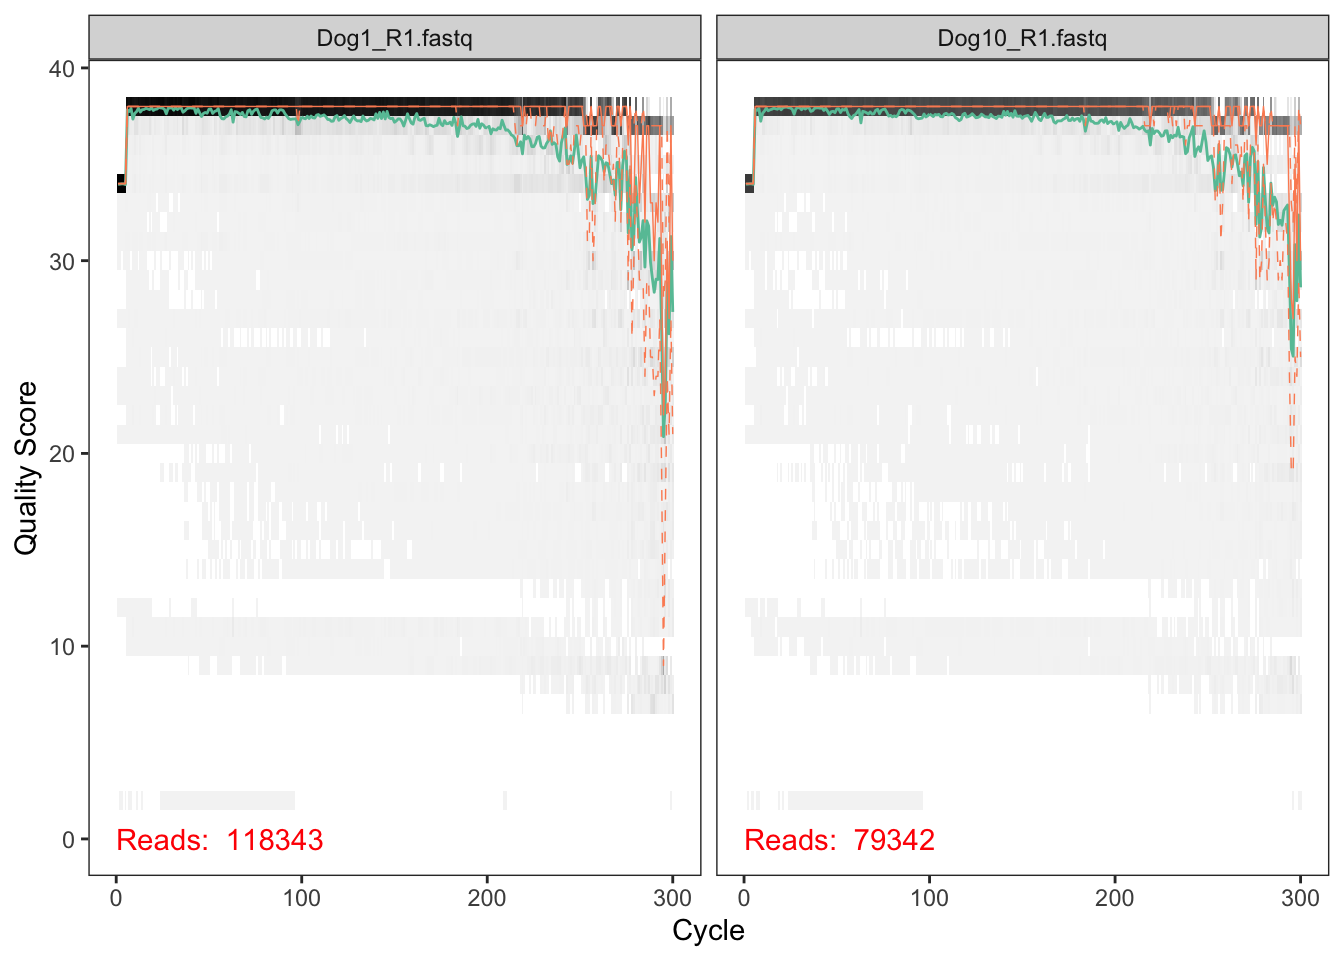
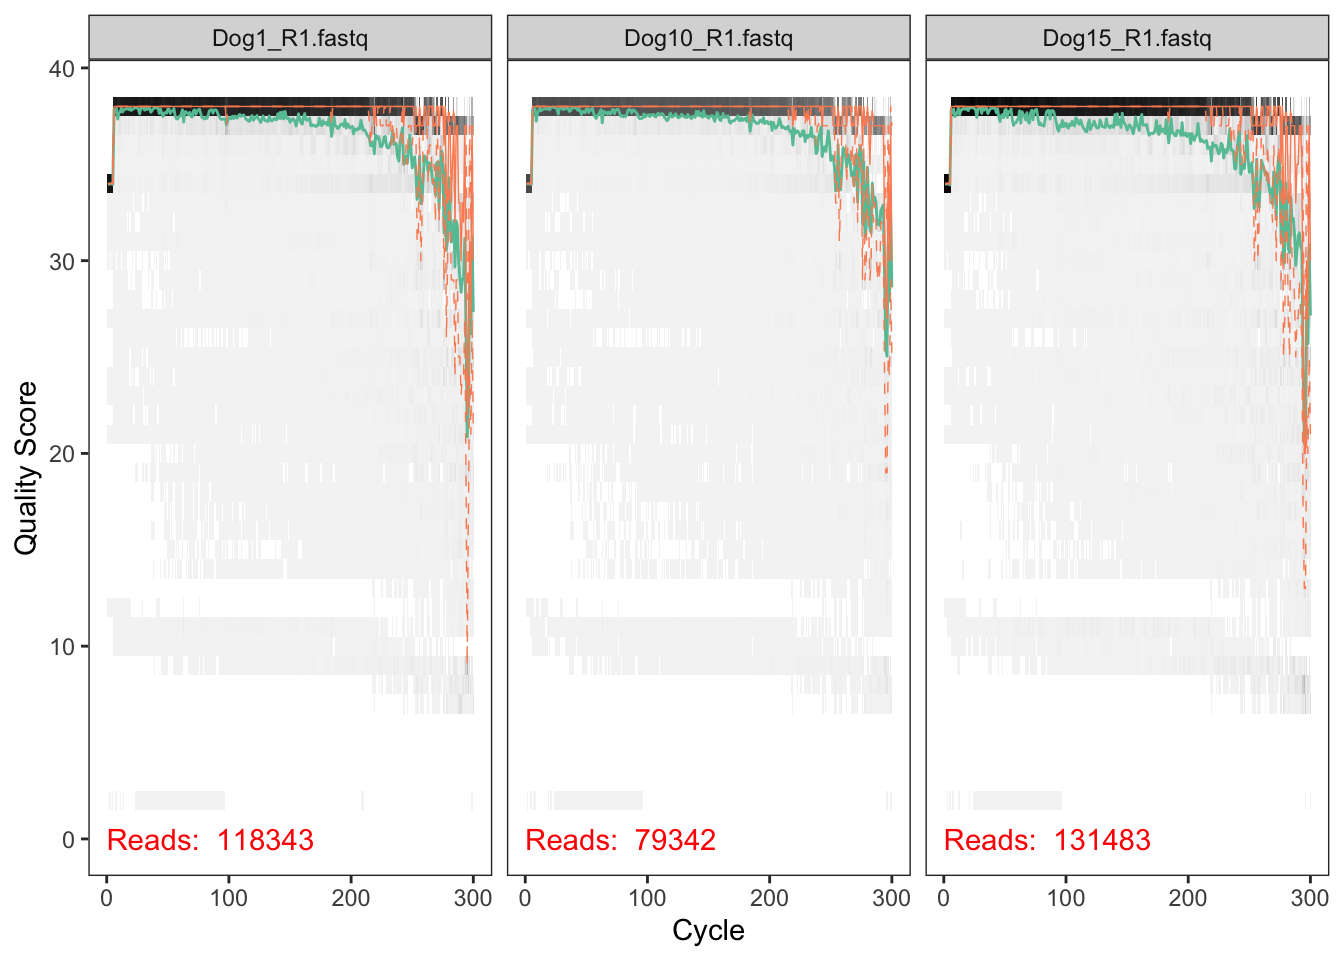
Add home page, navigation and theme

diff --git a/docs/16S-rRNA-pipeline-using-DADA2.html b/docs/16S-rRNA-pipeline-using-DADA2.html
@@ -423,6 +423,7 @@ $(document).ready(function () {
 </tr>
 </tbody>
 </table>
+<p><br/><br/></p>
 </div>
 <div id="getting-ready" class="section level2">
 <h2><span style="color:green">Getting ready</span></h2>
@@ -441,7 +442,7 @@ list.files(data)</code></pre>
 ## [21] &quot;Dog3_R1.fastq&quot;  &quot;Dog3_R2.fastq&quot;  &quot;Dog30_R1.fastq&quot; &quot;Dog30_R2.fastq&quot;
 ## [25] &quot;Dog31_R1.fastq&quot; &quot;Dog31_R2.fastq&quot; &quot;Dog8_R1.fastq&quot;  &quot;Dog8_R2.fastq&quot; 
 ## [29] &quot;Dog9_R1.fastq&quot;  &quot;Dog9_R2.fastq&quot;  &quot;filtered&quot;</code></pre>
-<p>#<code>{r} #MY_HOME &lt;- getwd() #data &lt;- paste(MY_HOME, &quot;/dog_samples&quot;, sep='')  # change the path #list.files(data) #</code> If the package successfully loaded and your listed files match those here, you are ready to go through the DADA2 pipeline. &lt;br&gt;&lt;br&gt;</p>
+<p>If the package successfully loaded and your listed files match those here, you are ready to go through the DADA2 pipeline. <br/><br/></p>
 <p>Now, we read in the names of the fastq files, and perform some string manipulation to get matched lists of the forward and reverse fastq files.</p>
 <pre class="r"><code># Forward and reverse fastq filenames have format: SAMPLENAME_R1.fastq and SAMPLENAME_R2.fastq
 fnFs &lt;- sort(list.files(data, pattern=&quot;_R1.fastq&quot;, full.names = TRUE))
@@ -452,15 +453,18 @@ sample.names &lt;- sapply(strsplit(basename(fnFs), &quot;_&quot;), `[`, 1)
 sample.names</code></pre>
 <pre><code>##  [1] &quot;Dog1&quot;  &quot;Dog10&quot; &quot;Dog15&quot; &quot;Dog16&quot; &quot;Dog17&quot; &quot;Dog2&quot;  &quot;Dog22&quot; &quot;Dog23&quot;
 ##  [9] &quot;Dog24&quot; &quot;Dog29&quot; &quot;Dog3&quot;  &quot;Dog30&quot; &quot;Dog31&quot; &quot;Dog8&quot;  &quot;Dog9&quot;</code></pre>
+<p><br/><br/></p>
 </div>
 <div id="quality-control-on-the-raw-data" class="section level2">
 <h2><span style="color:green">1. Quality Control on the raw data</span></h2>
 <p>We start by visualizing the quality profiles of the forward reads:</p>
-<pre class="r"><code>plotQualityProfile(fnFs[1:2])</code></pre>
-<p><img src="16S-rRNA-pipeline-using-DADA2_files/figure-html/unnamed-chunk-4-1.png" width="672" /> &lt;br&gt;&lt;br&gt;</p>
+<pre class="r"><code>plotQualityProfile(fnFs[1:3])</code></pre>
+<p><img src="16S-rRNA-pipeline-using-DADA2_files/figure-html/unnamed-chunk-4-1.png" width="672" /></p>
+<p><br/><br/></p>
 <p>We start by visualizing the quality profiles of the Reverse reads:</p>
-<pre class="r"><code>plotQualityProfile(fnRs[1:2])</code></pre>
+<pre class="r"><code>plotQualityProfile(fnRs[1:3])</code></pre>
 <p><img src="16S-rRNA-pipeline-using-DADA2_files/figure-html/unnamed-chunk-5-1.png" width="672" /></p>
+<p><br/><br/> Here, we have only the quality plot for three fastq files you can more plots to the figure.</p>
 <p><br/><br/></p>
 </div>
 <div id="filter-and-trim-the-raw-data" class="section level2">
@@ -471,17 +475,150 @@ filtFs &lt;- file.path(data, &quot;filtered&quot;, paste0(sample.names, &quot;_F
 filtRs &lt;- file.path(data, &quot;filtered&quot;, paste0(sample.names, &quot;_R_filt.fastq.gz&quot;))
 names(filtFs) &lt;- sample.names
 names(filtRs) &lt;- sample.names</code></pre>
-<pre class="r"><code>out &lt;- filterAndTrim(fnFs, filtFs, fnRs, filtRs, truncLen=c(240,160),
+<p>For the filtering, we will use these parameters: <strong>maxN = 0</strong> (DADA2 requeris no Ns), <strong>truncQ=2</strong>, <strong>rm.phix=TRUE</strong>, <strong>maxEE=2</strong> (it is the maximum number of expected errors allowed in a read), <strong>truncLen(270, 210)</strong> (it depends on the quality of your reads).</p>
+<pre class="r"><code>out &lt;- filterAndTrim(fnFs, filtFs, fnRs, filtRs, truncLen=c(270,200),
               maxN=0, maxEE=c(2,2), truncQ=2, rm.phix=TRUE,
               compress=TRUE, multithread=TRUE) # On Windows set multithread=FALSE
 head(out)</code></pre>
 <pre><code>##                reads.in reads.out
-## Dog1_R1.fastq    118343    113501
-## Dog10_R1.fastq    79342     76839
-## Dog15_R1.fastq   131483    122917
-## Dog16_R1.fastq   114424    109530
-## Dog17_R1.fastq    99610     95439
-## Dog2_R1.fastq    108679    104449</code></pre>
+## Dog1_R1.fastq    118343    109969
+## Dog10_R1.fastq    79342     75032
+## Dog15_R1.fastq   131483    118085
+## Dog16_R1.fastq   114424    105926
+## Dog17_R1.fastq    99610     92295
+## Dog2_R1.fastq    108679    101323</code></pre>
+<p><br/><br/></p>
+</div>
+<div id="learn-the-error-rates" class="section level2">
+<h2><span style="color:green">3. Learn the Error Rates</span></h2>
+<pre class="r"><code>errF &lt;- learnErrors(filtFs, multithread=TRUE)</code></pre>
+<pre><code>## 110433240 total bases in 409012 reads from 4 samples will be used for learning the error rates.</code></pre>
+<pre class="r"><code>errR &lt;- learnErrors(filtRs, multithread=TRUE)</code></pre>
+<pre><code>## 100261400 total bases in 501307 reads from 5 samples will be used for learning the error rates.</code></pre>
+<pre class="r"><code>plotErrors(errF, nominalQ=TRUE)</code></pre>
+<pre><code>## Warning: Transformation introduced infinite values in continuous y-axis</code></pre>
+<p><img src="16S-rRNA-pipeline-using-DADA2_files/figure-html/unnamed-chunk-10-1.png" width="672" /></p>
+<p><br/><br/></p>
+</div>
+<div id="sample-inference" class="section level2">
+<h2><span style="color:green">4. Sample Inference</span></h2>
+<pre class="r"><code>dadaFs &lt;- dada(filtFs, err=errF, multithread=TRUE)</code></pre>
+<pre><code>## Sample 1 - 109969 reads in 35212 unique sequences.
+## Sample 2 - 75032 reads in 26997 unique sequences.
+## Sample 3 - 118085 reads in 33278 unique sequences.
+## Sample 4 - 105926 reads in 34794 unique sequences.
+## Sample 5 - 92295 reads in 26149 unique sequences.
+## Sample 6 - 101323 reads in 34423 unique sequences.
+## Sample 7 - 135748 reads in 40932 unique sequences.
+## Sample 8 - 181513 reads in 59270 unique sequences.
+## Sample 9 - 151472 reads in 46899 unique sequences.
+## Sample 10 - 114536 reads in 35678 unique sequences.
+## Sample 11 - 94066 reads in 30087 unique sequences.
+## Sample 12 - 131041 reads in 45339 unique sequences.
+## Sample 13 - 140973 reads in 37103 unique sequences.
+## Sample 14 - 100430 reads in 32307 unique sequences.
+## Sample 15 - 101758 reads in 34621 unique sequences.</code></pre>
+<pre class="r"><code>dadaRs &lt;- dada(filtRs, err=errR, multithread=TRUE)</code></pre>
+<pre><code>## Sample 1 - 109969 reads in 23274 unique sequences.
+## Sample 2 - 75032 reads in 16028 unique sequences.
+## Sample 3 - 118085 reads in 22336 unique sequences.
+## Sample 4 - 105926 reads in 22545 unique sequences.
+## Sample 5 - 92295 reads in 17370 unique sequences.
+## Sample 6 - 101323 reads in 22684 unique sequences.
+## Sample 7 - 135748 reads in 25100 unique sequences.
+## Sample 8 - 181513 reads in 34341 unique sequences.
+## Sample 9 - 151472 reads in 28510 unique sequences.
+## Sample 10 - 114536 reads in 20617 unique sequences.
+## Sample 11 - 94066 reads in 18694 unique sequences.
+## Sample 12 - 131041 reads in 25414 unique sequences.
+## Sample 13 - 140973 reads in 24084 unique sequences.
+## Sample 14 - 100430 reads in 21709 unique sequences.
+## Sample 15 - 101758 reads in 21345 unique sequences.</code></pre>
+<pre class="r"><code>dadaFs[[1]]</code></pre>
+<pre><code>## dada-class: object describing DADA2 denoising results
+## 763 sequence variants were inferred from 35212 input unique sequences.
+## Key parameters: OMEGA_A = 1e-40, OMEGA_C = 1e-40, BAND_SIZE = 16</code></pre>
+<p><br/><br/></p>
+</div>
+<div id="merge-paired-reads" class="section level2">
+<h2><span style="color:green">5. Merge Paired Reads</span></h2>
+<pre class="r"><code>mergers &lt;- mergePairs(dadaFs, filtFs, dadaRs, filtRs, verbose=TRUE)</code></pre>
+<pre><code>## 98462 paired-reads (in 722 unique pairings) successfully merged out of 107135 (in 2805 pairings) input.</code></pre>
+<pre><code>## 66062 paired-reads (in 462 unique pairings) successfully merged out of 73040 (in 2041 pairings) input.</code></pre>
+<pre><code>## 106597 paired-reads (in 538 unique pairings) successfully merged out of 115788 (in 2440 pairings) input.</code></pre>
+<pre><code>## 93946 paired-reads (in 683 unique pairings) successfully merged out of 103644 (in 3014 pairings) input.</code></pre>
+<pre><code>## 84636 paired-reads (in 550 unique pairings) successfully merged out of 90115 (in 1795 pairings) input.</code></pre>
+<pre><code>## 88357 paired-reads (in 773 unique pairings) successfully merged out of 98167 (in 3287 pairings) input.</code></pre>
+<pre><code>## 119264 paired-reads (in 650 unique pairings) successfully merged out of 132552 (in 3626 pairings) input.</code></pre>
+<pre><code>## 155887 paired-reads (in 1019 unique pairings) successfully merged out of 176364 (in 5378 pairings) input.</code></pre>
+<pre><code>## 134273 paired-reads (in 755 unique pairings) successfully merged out of 147615 (in 3664 pairings) input.</code></pre>
+<pre><code>## 101216 paired-reads (in 533 unique pairings) successfully merged out of 112268 (in 2715 pairings) input.</code></pre>
+<pre><code>## 83962 paired-reads (in 555 unique pairings) successfully merged out of 91628 (in 2296 pairings) input.</code></pre>
+<pre><code>## 110524 paired-reads (in 812 unique pairings) successfully merged out of 126562 (in 4293 pairings) input.</code></pre>
+<pre><code>## 128232 paired-reads (in 614 unique pairings) successfully merged out of 137970 (in 2662 pairings) input.</code></pre>
+<pre><code>## 89694 paired-reads (in 696 unique pairings) successfully merged out of 97685 (in 2730 pairings) input.</code></pre>
+<pre><code>## 87332 paired-reads (in 706 unique pairings) successfully merged out of 98592 (in 3256 pairings) input.</code></pre>
+<pre class="r"><code># Inspect the merger data.frame from the first sample
+head(mergers[[1]])</code></pre>
+<pre><code>##                                                                                                                                                                                                                                                                         sequence
+## 1 TACGGAGGGTGCAAGCGTTAATCGGAATTACTGGGCGTAAAGCGCACGCAGGCGGTTTGTTAAGTCAGATGTGAAATCCCCGGGCTCAACCTGGGAACTGCATCTGATACTGGCAAGCTTGAGTCTCGTAGAGGGGGGTAGAATTCCAGGTGTAGCGGTGAAATGCGTAGAGATCTGGAGGAATACCGGTGGCGAAGGCGGCCCCCTGGACGAAGACTGACGCTCAGGTGCGAAAGCGTGGGGAGCAAACAGGATTAGAAACCCTAGTAG
+## 2 TACGGAGGGTGCAAGCGTTAATCGGAATTACTGGGCGTAAAGCGCACGCAGGCGGTTTGTTAAGTCAGATGTGAAATCCCCGGGCTCAACCTGGGAACTGCATCTGATACTGGCAAGCTTGAGTCTCGTAGAGGGGGGTAGAATTCCAGGTGTAGCGGTGAAATGCGTAGAGATCTGGAGGAATACCGGTGGCGAAGGCGGCCCCCTGGACGAAGACTGACGCTCAGGTGCGAAAGCGTGGGGAGCAAACAGGATTAGAAACCCGAGTAG
+## 3 TACGGAGGGTGCAAGCGTTAATCGGAATTACTGGGCGTAAAGCGCACGCAGGCGGTTTGTTAAGTCAGATGTGAAATCCCCGGGCTCAACCTGGGAACTGCATCTGATACTGGCAAGCTTGAGTCTCGTAGAGGGGGGTAGAATTCCAGGTGTAGCGGTGAAATGCGTAGAGATCTGGAGGAATACCGGTGGCGAAGGCGGCCCCCTGGACGAAGACTGACGCTCAGGTGCGAAAGCGTGGGGAGCAAACAGGATTAGAAACCCTTGTAG
+## 4 TACGGAGGGTGCAAGCGTTAATCGGAATTACTGGGCGTAAAGCGCACGCAGGCGGTTTGTTAAGTCAGATGTGAAATCCCCGGGCTCAACCTGGGAACTGCATCTGATACTGGCAAGCTTGAGTCTCGTAGAGGGGGGTAGAATTCCAGGTGTAGCGGTGAAATGCGTAGAGATCTGGAGGAATACCGGTGGCGAAGGCGGCCCCCTGGACGAAGACTGACGCTCAGGTGCGAAAGCGTGGGGAGCAAACAGGATTAGAAACCCGTGTAG
+## 5 TACGGAGGGTGCAAGCGTTAATCGGAATTACTGGGCGTAAAGCGCACGCAGGCGGTTTGTTAAGTCAGATGTGAAATCCCCGGGCTCAACCTGGGAACTGCATCTGATACTGGCAAGCTTGAGTCTCGTAGAGGGGGGTAGAATTCCAGGTGTAGCGGTGAAATGCGTAGAGATCTGGAGGAATACCGGTGGCGAAGGCGGCCCCCTGGACGAAGACTGACGCTCAGGTGCGAAAGCGTGGGGAGCAAACAGGATTAGAAACCCTGGTAG
+## 6 TACGTAGGGGGCTAGCGTTATCCGGATTTACTGGGCGTAAAGGGTGCGTAGGCGGTCTTTCAAGTCAGGAGTTAAAGGCTACGGCTCAACCGTAGTAAGCTCCTGATACTGTCTGACTTGAGTGCAGGAGAGGAAAGCGGAATTCCCAGTGTAGCGGTGAAATGCGTAGATATTGGGAGGAACACCAGTAGCGAAGGCGGCTTTCTGGACTGTAACTGACGCTGAGGCACGAAAGCGTGGGGAGCAAACAGGATTAGAAACCCTAGTAGT
+##   abundance forward reverse nmatch nmismatch nindel prefer accept
+## 1      1043       1       1    200         0      0      2   TRUE
+## 2       915       5       1    200         0      0      2   TRUE
+## 3       915       2       1    200         0      0      2   TRUE
+## 4       887       3       1    200         0      0      2   TRUE
+## 5       878       6       1    200         0      0      2   TRUE
+## 6       848       7       2    200         0      0      2   TRUE</code></pre>
+<p><br/><br/></p>
+</div>
+<div id="construct-sequence-table" class="section level2">
+<h2><span style="color:green">6. Construct sequence Table</span></h2>
+<pre class="r"><code>seqtab &lt;- makeSequenceTable(mergers)
+dim(seqtab)</code></pre>
+<pre><code>## [1]   15 3142</code></pre>
+<pre class="r"><code># Inspect distribution of sequence lengths
+table(nchar(getSequences(seqtab)))</code></pre>
+<pre><code>## 
+##  270 
+## 3142</code></pre>
+<p><br/><br/></p>
+</div>
+<div id="remove-chimeras" class="section level2">
+<h2><span style="color:green">7. Remove Chimeras</span></h2>
+<pre class="r"><code>seqtab.nochim &lt;- removeBimeraDenovo(seqtab, method=&quot;consensus&quot;, multithread=TRUE, verbose=TRUE)</code></pre>
+<pre><code>## Identified 1686 bimeras out of 3142 input sequences.</code></pre>
+<pre class="r"><code>dim(seqtab.nochim)</code></pre>
+<pre><code>## [1]   15 1456</code></pre>
+<pre class="r"><code>sum(seqtab.nochim)/sum(seqtab)</code></pre>
+<pre><code>## [1] 0.825448</code></pre>
+<p><br/><br/></p>
+</div>
+<div id="track-reads-through-the-pipeline" class="section level2">
+<h2><span style="color:green">8. Track Reads through the Pipeline</span></h2>
+<pre class="r"><code>getN &lt;- function(x) sum(getUniques(x))
+track &lt;- cbind(out, sapply(dadaFs, getN), sapply(dadaRs, getN), sapply(mergers, getN), rowSums(seqtab.nochim))
+# If processing a single sample, remove the sapply calls: e.g. replace sapply(dadaFs, getN) with getN(dadaFs)
+colnames(track) &lt;- c(&quot;input&quot;, &quot;filtered&quot;, &quot;denoisedF&quot;, &quot;denoisedR&quot;, &quot;merged&quot;, &quot;nonchim&quot;)
+rownames(track) &lt;- sample.names
+head(track)</code></pre>
+<pre><code>##        input filtered denoisedF denoisedR merged nonchim
+## Dog1  118343   109969    107627    109161  98462   80895
+## Dog10  79342    75032     73366     74434  66062   57540
+## Dog15 131483   118085    116196    117449 106597   93884
+## Dog16 114424   105926    104048    105199  93946   74356
+## Dog17  99610    92295     90491     91662  84636   73951
+## Dog2  108679   101323     98698    100358  88357   70684</code></pre>
+<p><br/><br/></p>
+</div>
+<div id="assign-taxonomy" class="section level2">
+<h2><span style="color:green">9. Assign Taxonomy</span></h2>
+<pre class="r"><code>taxa &lt;- assignTaxonomy(seqtab.nochim, paste(MY_HOME, &quot;/dada2_tutorial_dog/silva_nr_v132_train_set.fa.gz&quot;, sep=&#39;&#39;), multithread=TRUE) # change the path
+#data &lt;- paste(MY_HOME, &quot;/dada2_tutorial_dog/dog_samples&quot;, sep=&#39;&#39;)  </code></pre>
 </div>
 
 
